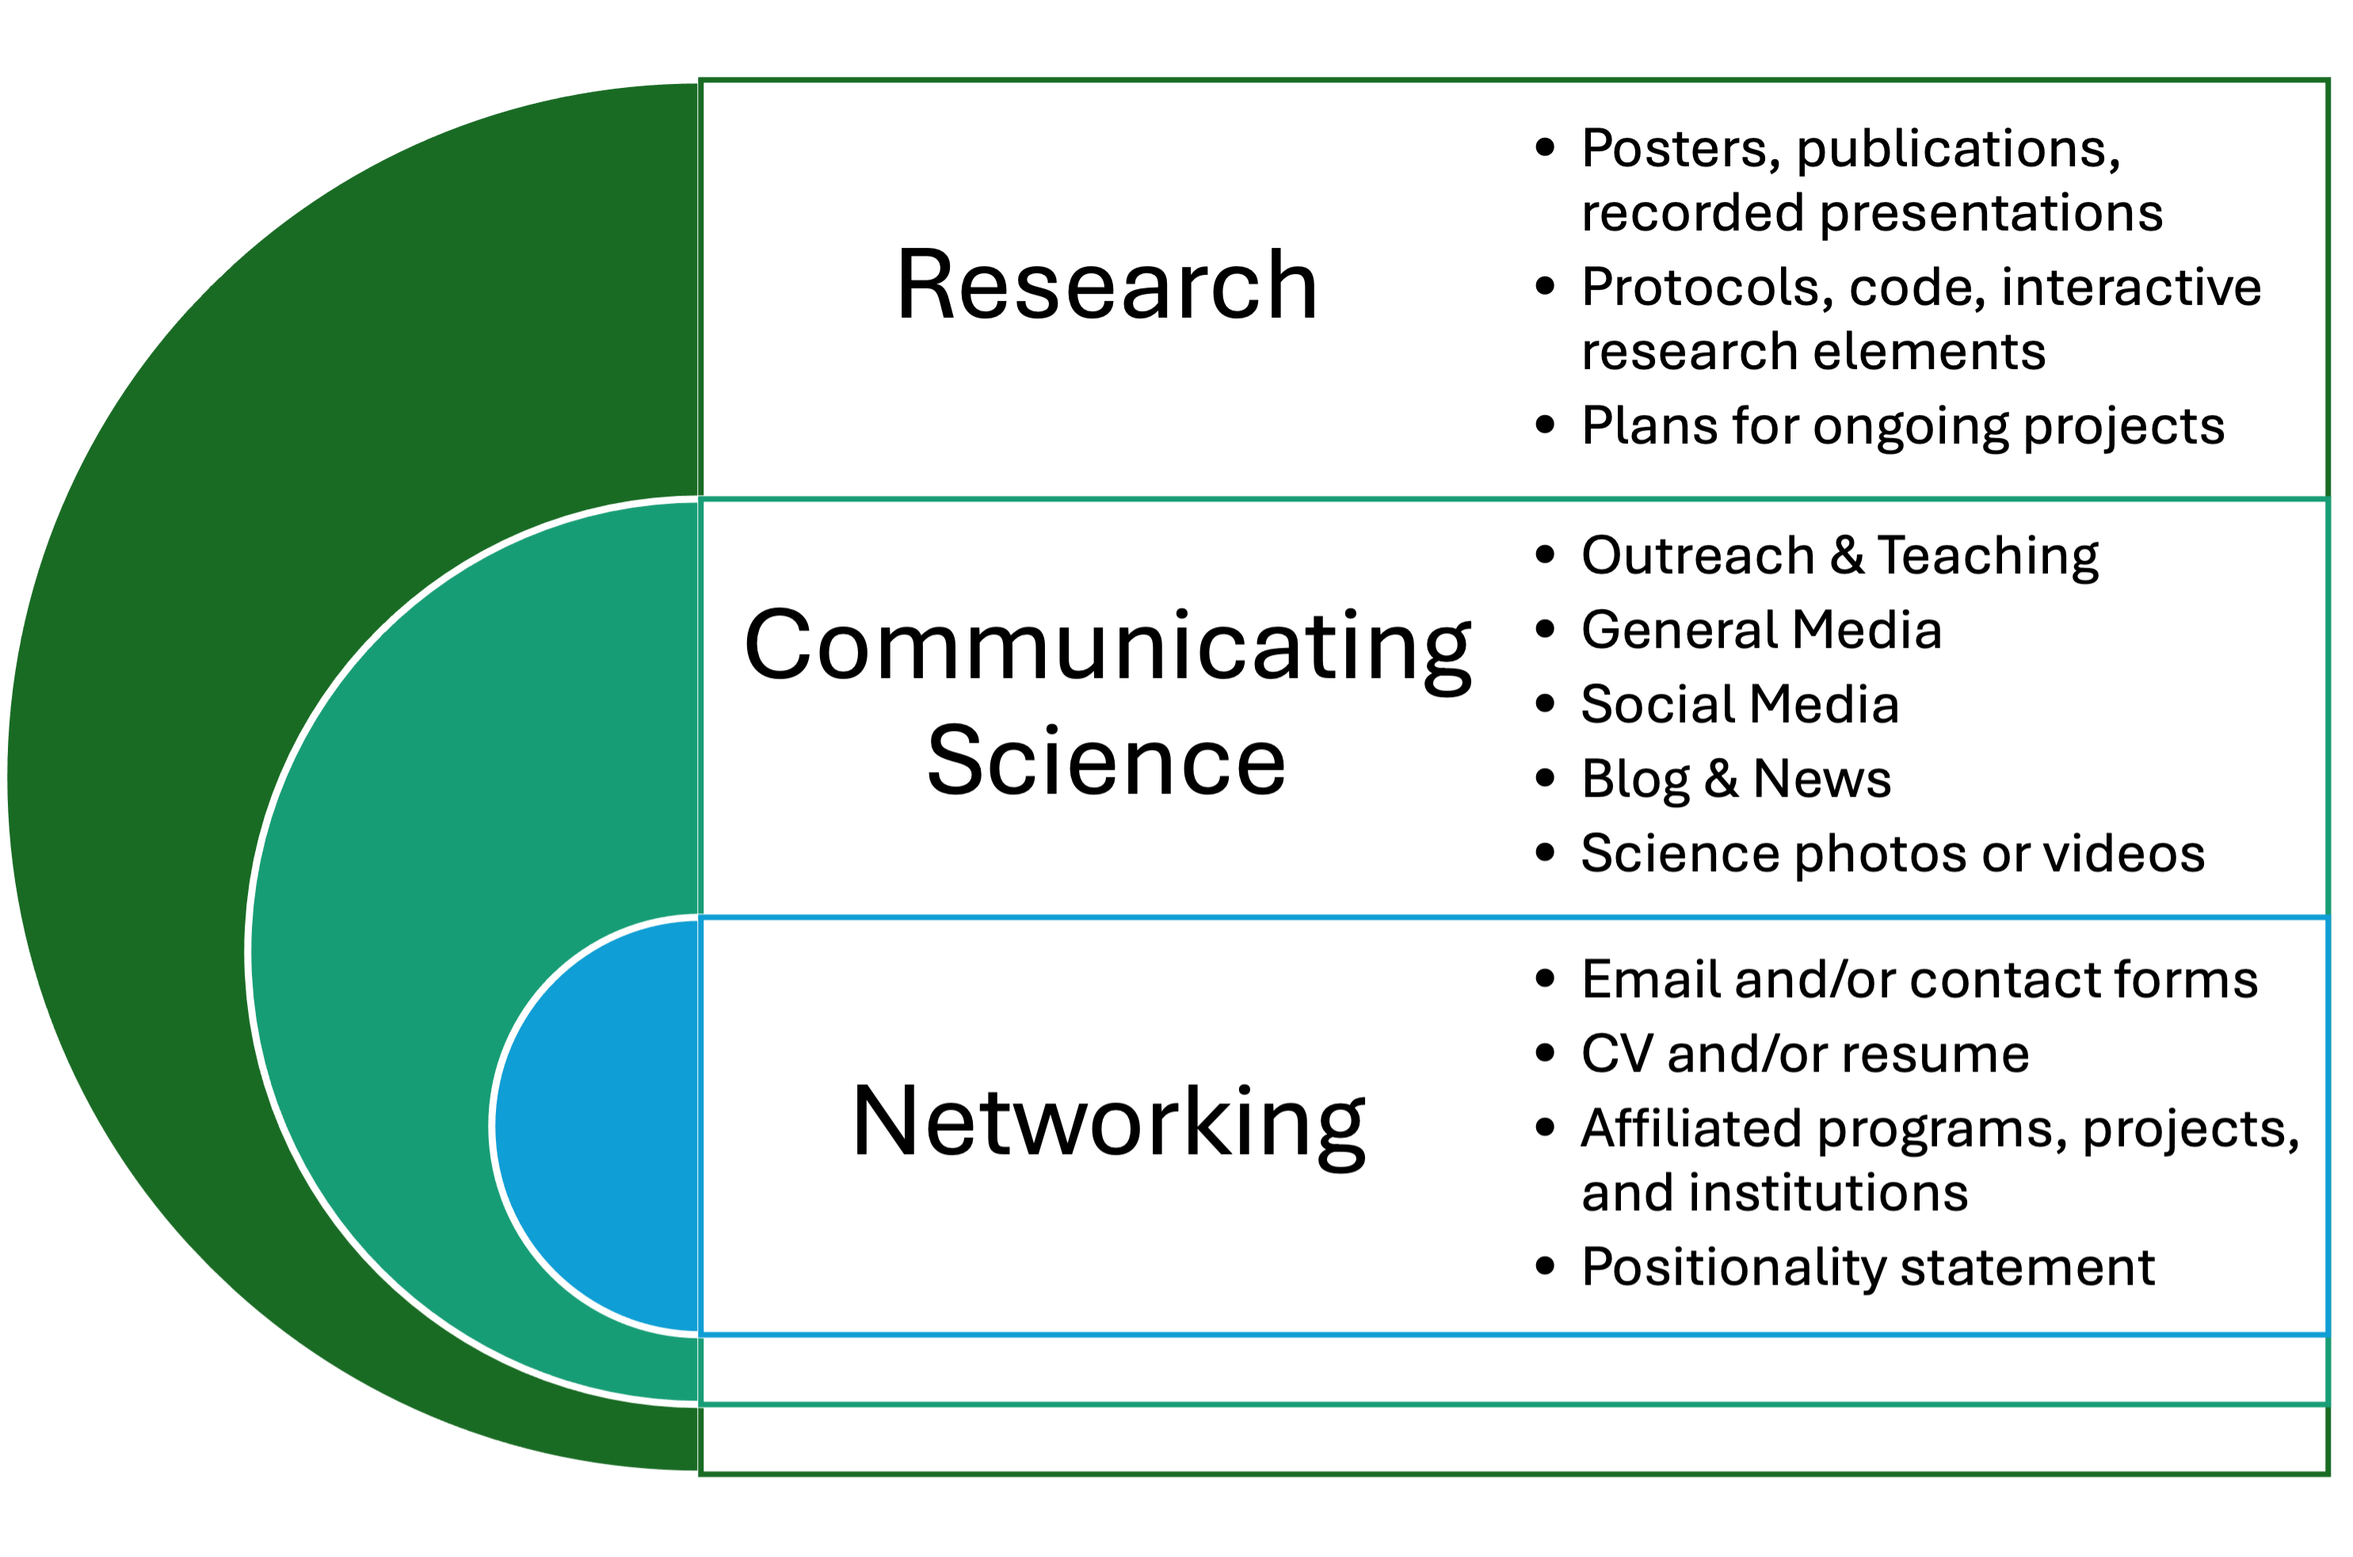
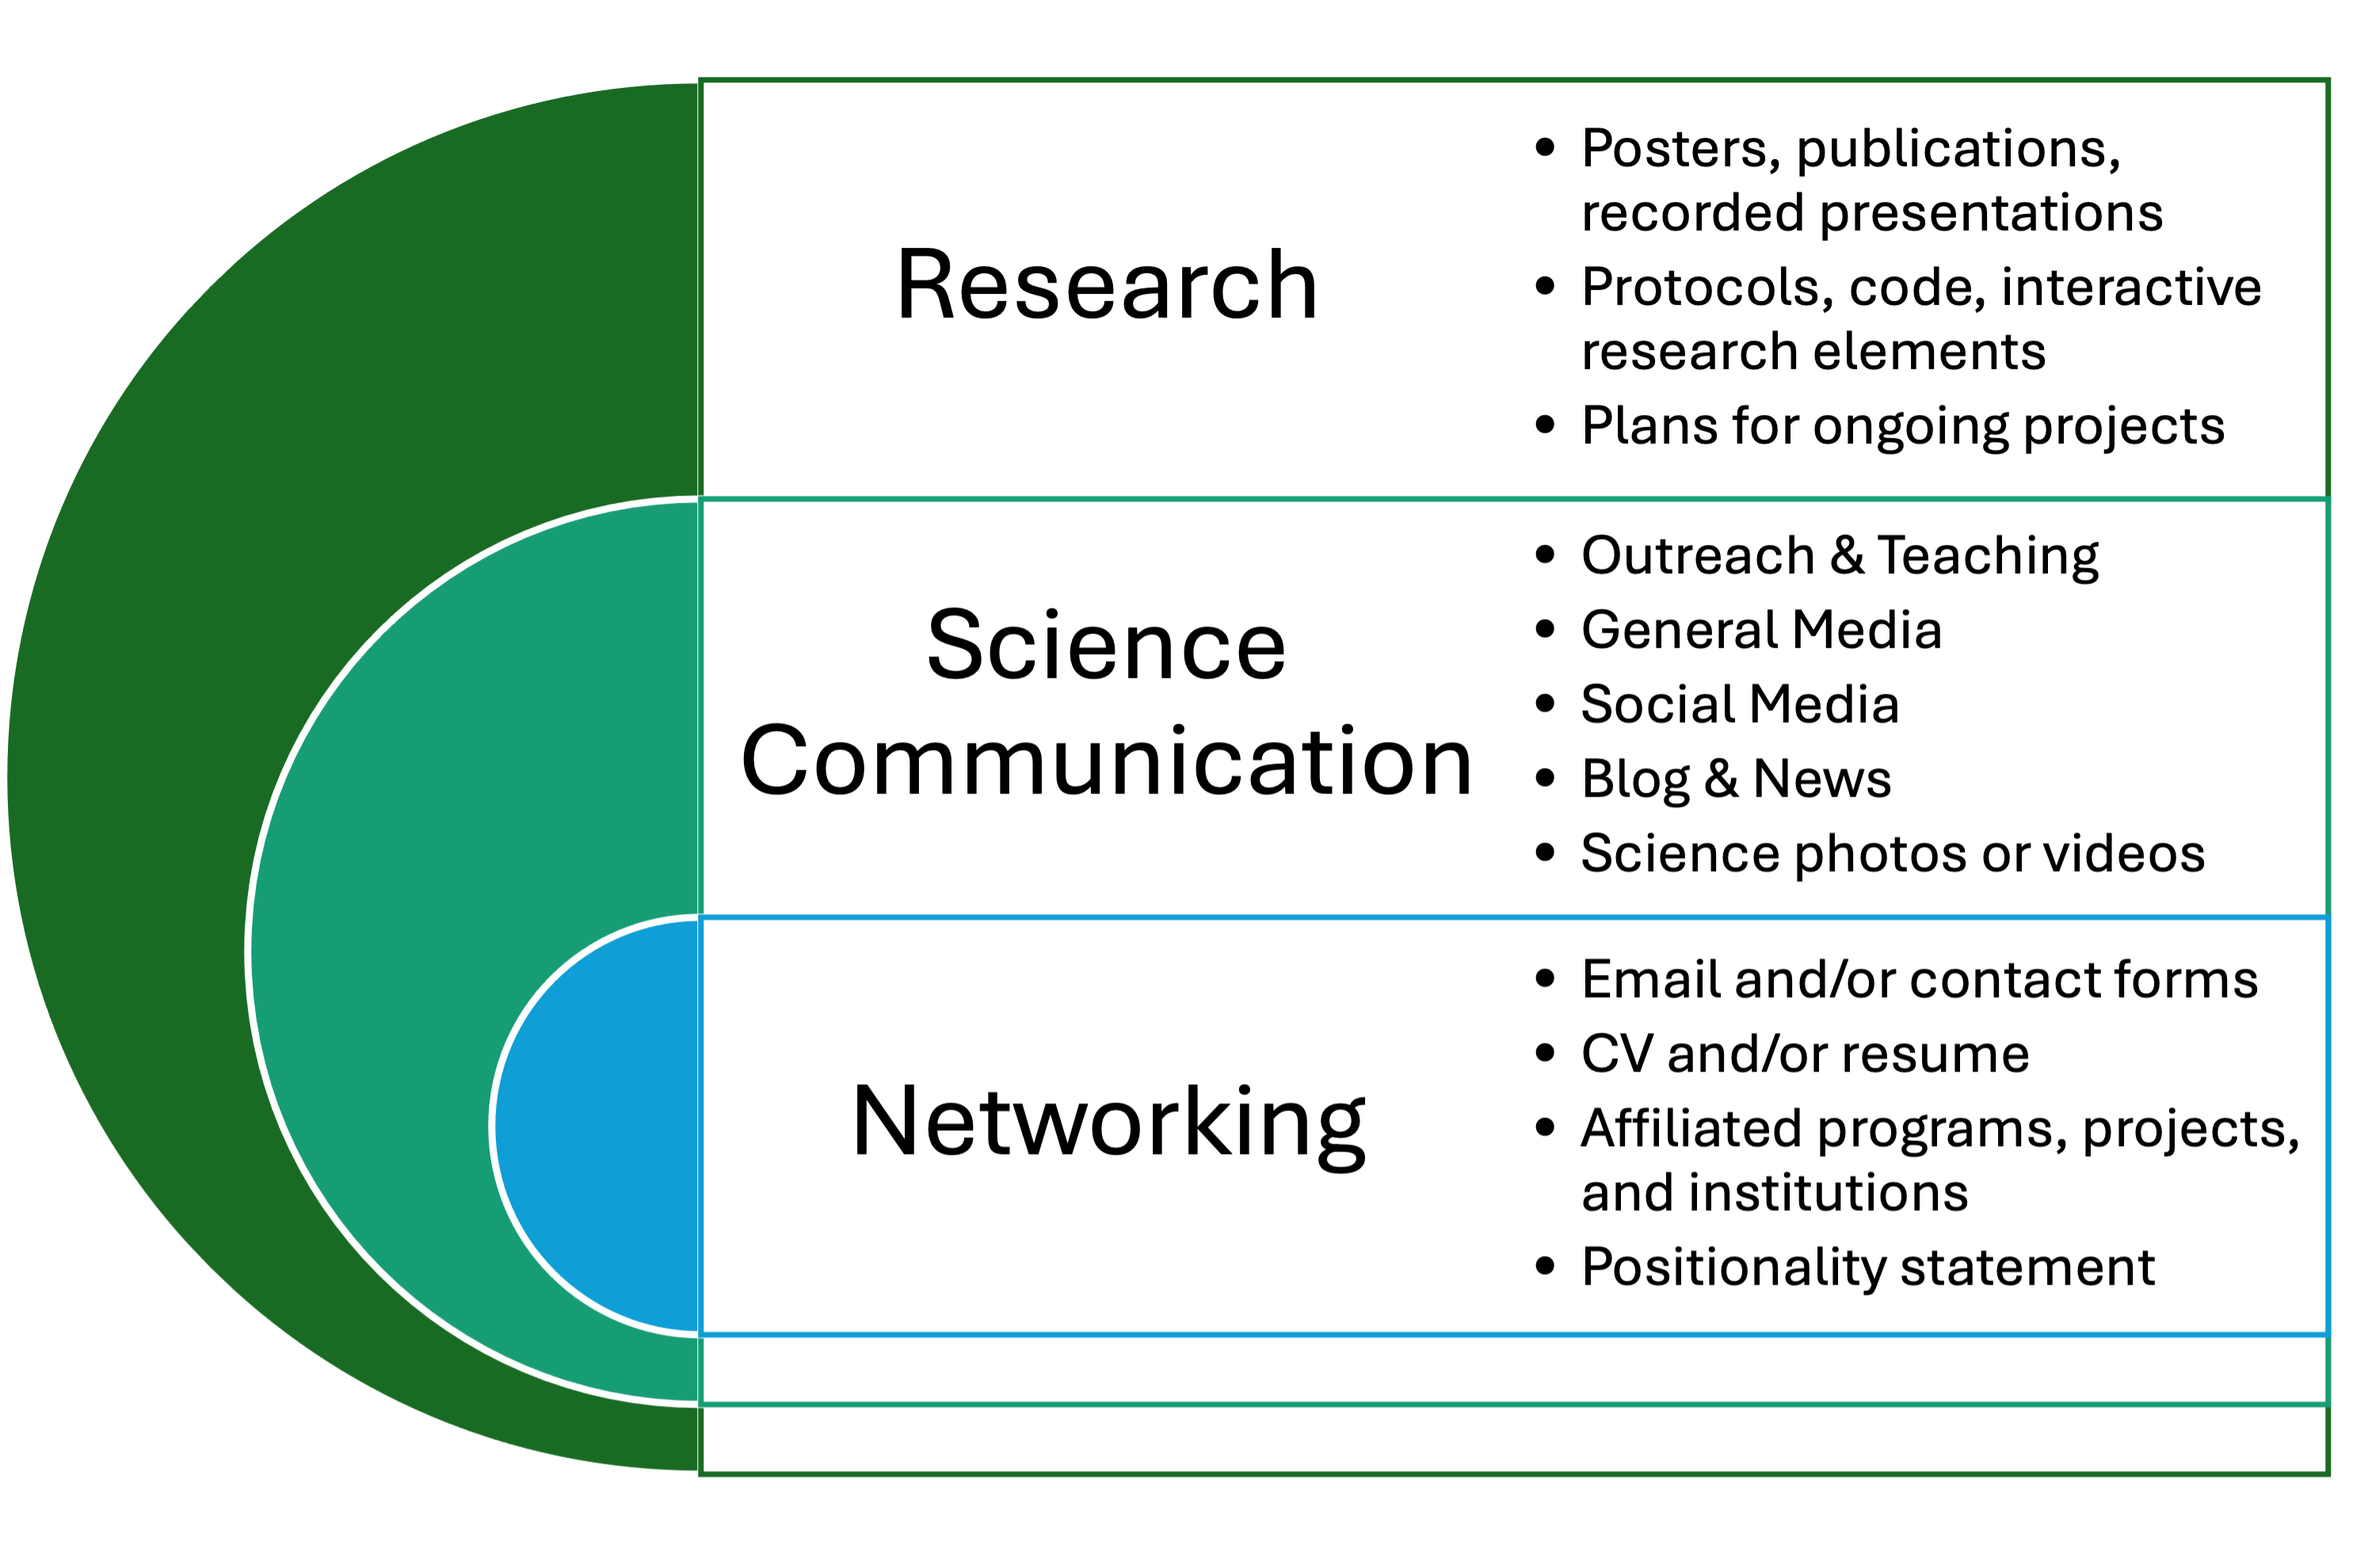
updates to websites
updates to websites

Changed region(s): [[0.3098, 0.3723, 0.6195, 0.5275]]

diff --git a/docs/resources.html b/docs/resources.html
@@ -63,7 +63,7 @@ ul.task-list li input[type="checkbox"] {
 
 <meta name="twitter:title" content="Madeline G. Eppley - Resources">
 <meta name="twitter:description" content="">
-<meta name="twitter:image" content="website_content.png">
+<meta name="twitter:image" content="img/website_content.png">
 <meta name="twitter:card" content="summary_large_image">
 </head>
 
@@ -172,64 +172,52 @@ ul.task-list li input[type="checkbox"] {
 
 <section id="personal-academic-websites" class="level3">
 <h3 class="anchored" data-anchor-id="personal-academic-websites">Personal Academic Websites</h3>
+<section id="why-have-a-personal-academic-website" class="level5">
+<h5 class="anchored" data-anchor-id="why-have-a-personal-academic-website">Why have a personal academic website?</h5>
+<p>Traditional metrics (e.g.&nbsp;citations) by which scientists are evaluated are deeply biased and perpetuate exclusionary networks (Davies et al.&nbsp;2021). These traditional metrics of “success” directly influence career advancement opportunities, funding, awards, distinctions, tenure, and more. Altmetrics, or alternative metrics, (e.g.&nbsp;social media activity, news articles, interviews, etc.) offer an alternative method for quantitative evaluation. Altmetrics aid in recognizing that valuable scientific impact takes many forms, including equitable communication and translation of science to general audiences (Davies et al 2021). Personal websites positively drive altmetrics, meaning that scientists can directly benefit from having a strong online presence in social media, websites, or press (Peoples et al.&nbsp;2016). Promoting and evaluating scientific work in diverse ways dismantles perpetuating bias and reliance on traditional citation metrics (Davies et al.&nbsp;2021).</p>
+<p>Beyond this, personal academic websites offer the most complete opportunity to tell the story of yourself and your scientific work. By maintaining a personal website, you have control over keeping URLs, publications, email addresses, and CVs up-to-date, whereas an institutional page may not do so for you. You are also able to link research results, media and press, grant funding, and pictures all together in one place to engage in scientific storytelling with your audience. Funding bodies are now recognizing the value of this type of communication with general audiences, communities, and stakeholders, so having a personal website displays commitment to this broadening values system in science. It’s a no-brainer!</p>
+</section>
 <section id="choosing-where-to-build-and-host-your-website" class="level5">
 <h5 class="anchored" data-anchor-id="choosing-where-to-build-and-host-your-website">Choosing where to build and host your website</h5>
 <section id="github-quarto-website" class="level6">
 <h6 class="anchored" data-anchor-id="github-quarto-website"><em>GitHub + Quarto Website</em></h6>
 <p>I have used GitHub and Quarto to build this website! You need a GitHub account and some intermediate familiarity with coding in R to build your own. There is no cost to host your site, and you can host it on any custom domain that you may own. I have found that design functionality is extremely limited unless you are willing to custom-develop your own styles.css documents, which is time-consuming. Importantly, you can only host one GitHub pages site per account.</p>
-<p>I have a tutorial on how to build your own Quarto website and host it on GitHub! Find it on my Coding page. To get started, Quarto also has a lot of information <a href="https://quarto.org/docs/websites/">here</a>.</p>
+<p>I have an extensive tutorial on how to build your own Quarto website and host it on GitHub. Find it on my <a href="https://madeline-eppley.github.io/coding.html#creating-a-quarto-website-with-github">Coding page</a>. To get started, Quarto also has a lot of information <a href="https://quarto.org/docs/websites/">here</a>.</p>
 </section>
 <section id="weebly" class="level6">
 <h6 class="anchored" data-anchor-id="weebly"><em>Weebly</em></h6>
-<p>I have used Weebly to build my personal website! I really enjoyed the ease of use and multitude of design options with Weebly. It is free to host your website with a ‘.weebly.com’ address, but you can also host on any custom domain that you may own. I purchased my custom domain through Weebly, and it was easy. There is a cost to remove banner ads at the bottom of your page, but they aren’t too distracting if you want to keep it free. No coding experience required, but it is helpful to know how to insert custom .html to embed code and links.</p>
+<p>I have used Weebly to build my main personal website. I really enjoyed the ease of use and multitude of design options with Weebly. It is free to host your website with a ‘.weebly.com’ address, but you can also host on any custom domain that you may own. I purchased my custom domain through Weebly, and it was easy. There is a cost to remove banner ads at the bottom of your page, but they aren’t too distracting if you want to keep it free. No coding experience required, but it is helpful to know how to insert custom .html to embed code and links.</p>
 <p>You can find my personal website on Weebly <a href="https://www.madeline-eppley.com">here</a>.</p>
 </section>
 <section id="google-sites" class="level6">
 <h6 class="anchored" data-anchor-id="google-sites"><em>Google Sites</em></h6>
-<p>Google sites are free with a Google account and don’t require any coding experience to build! My lab has a google-hosted website that I edit regularly, and I find it easy with great version-control to use as a review process before you publish. Your site is hosted on a ‘sites.google.com/site/yourwebsitenamehere address’, or you can use any custom domain that you may own. There is decent flexibility with design and they have pre-made templates that can get you started. I have heard that some algorithms may filter google sites out of web browser search results, but have not come across this issue (potentially because I use Chrome).</p>
+<p>Google sites are free with a Google account and don’t require any coding experience to build. <a href="https://sites.google.com/site/katielotterhos/home">My lab has a google-hosted website</a> that I edit regularly, and I find it easy with great version control to use as a review process before you publish. Your site is hosted on a ‘sites.google.com/site/yourwebsitenamehere address’, or you can use any custom domain that you may own. There is decent flexibility with design and they have pre-made templates that can get you started.</p>
 </section>
 <section id="other-hosting-options---squarespace-wix-wordpress" class="level6">
 <h6 class="anchored" data-anchor-id="other-hosting-options---squarespace-wix-wordpress"><em>Other Hosting Options - Squarespace, Wix, WordPress</em></h6>
 <p>I have not built websites with any other hosting service. I have peers that have successfully used Squarespace, Wix, and WordPress with mixed reviews. Most of these hosting services will require you to pay for a plan or to remove advertisements. You may also need to purchase a custom domain, but some, like WordPress, may allow you to host for free with a ‘.wordpress.com’ address.</p>
 </section>
 </section>
-<section id="content-for-your-website" class="level5">
-<h5 class="anchored" data-anchor-id="content-for-your-website">Content for your Website</h5>
+<section id="content-for-your-academic-website" class="level5">
+<h5 class="anchored" data-anchor-id="content-for-your-academic-website">Content for your Academic Website</h5>
 <p>Personal academic websites are a great tool for networking, sharing your research, and communicating science to general audiences. Think of your website as a digital repository of you as a scientist!</p>
-<section id="best-practices-for-website-content" class="level6">
-<h6 class="anchored" data-anchor-id="best-practices-for-website-content">Best practices for website content</h6>
+<section id="best-practices" class="level6">
+<h6 class="anchored" data-anchor-id="best-practices">Best practices</h6>
 <ul>
 <li><p>Always include links to publicly-accessible content wherever you can. <em>Example: You were in a working group that published a paper. The working group was established out of an academic society where you all met.</em> You should link (1) the academic society website AND (2) the DOI and direct link to an open-access paper OR (3) a link to directly download a .pdf of the paper.</p></li>
 <li><p>Better yet, embed content directly into the site! <em>Example: You went to an academic conference and presented a poster.</em> You should (1) register your poster online through a service that makes it citable, like <a href="https://knowledge.figshare.com/about">figshare</a> to link the DOI, AND (2) embed it directly on your website by uploading it as a high-quality .pdf, .png, or using a service that can be integrated into your website, like <a href="https://www.scribd.com/">SCRIBD</a>.</p></li>
 <li><p>Present all material without scientific jargon and include as many interactive elements, photos, and links as you can.<em>Example: You developed an R Shiny app for visualizing an equation you use in your research.</em> You should (1) link your R Shiny app to your research page and explain why the equation is important to a scientific audience, AND (2) link the R Shiny app in your teaching or outreach page as a science communication opportunity! When you’ve developed multipurpose products and tools, they are worth sharing with multiple audiences in distinct ways.</p></li>
 </ul>
 </section>
-<section id="categories-of-website-content" class="level6">
-<h6 class="anchored" data-anchor-id="categories-of-website-content">Categories of website content</h6>
-<p><img src="website_content.png" class="img-fluid" alt="A drawing of an elephant."></p>
+<section id="categories-of-academic-website-content" class="level6">
+<h6 class="anchored" data-anchor-id="categories-of-academic-website-content">Categories of academic website content</h6>
+<p><img src="img/website_content.png" class="img-fluid" alt="Academic website content has three main categories: Research, Science Communication, and Networking"></p>
 <p><em>Communicating Science</em></p>
-<ul>
-<li>Outreach</li>
-<li>Teaching</li>
-<li>Blog</li>
-<li>General Media (interviews, podcasts, science writing)</li>
-<li>Social media accounts or feeds</li>
-<li>Photos of you doing science!</li>
-</ul>
+<p>This is your opportunity to show how your research and work is valuable beyond immediate scientific outcomes. You can include outreach or teaching products, media links to interviews, podcasts, or science writing, your blog, embed social media feeds, and lots of images of you and your science! Wherever possible, consider sharing teaching or outreach resources in ways that are reproducible.</p>
 <p><em>Networking</em></p>
-<ul>
-<li>Affiliated programs, projects, and institutions</li>
-<li>Email(s) or contact forms</li>
-<li>CV and/or Resume</li>
-<li>News</li>
-<li>Positionality statement - who are YOU as a scientist?</li>
-</ul>
+<p>This is your opportunity to communicate who YOU are as a scientist. A positionality statement about your identities and how they influence your work is a great place to start. Discussing your engagement with programs, projects, societies, and institutions is another way to create an immediate connection with someone who may also be a member. Posting your CV is a great way to showcase yourself and your achievements, especially for early-career researchers. Providing concrete ways to get in touch, either through social media, email, or a contact form is important.</p>
 <p><em>Research</em></p>
-<ul>
-<li>Posters, publications, and recorded presentations, aka “accessible products”</li>
-<li>Protocols, apps, or other interactive research elements</li>
-<li>Plans for ongoing projects (a sneak peek into your current work)</li>
-</ul>
+<p>This is your opportunity to translate the research that you do to general scientific and non-scientific audiences. Consider that interactive elements, such as recorded oral presentations, videos, apps, photos, embedded posters, accessible .pdfs, and protocols are all going to garner more audience engagement than simple text on a page. A quick few sentences about your ongoing work can spark a conversation with someone in the science community who may be interested in what you’re working on next.</p>
 </section>
 </section>
 </section>
